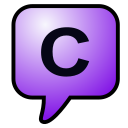
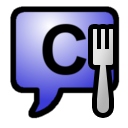
Added setting for mention users with asian nicks.

diff --git a/src/chatty/gui/MainGui.java b/src/chatty/gui/MainGui.java
@@ -1961,7 +1961,11 @@ public class MainGui extends JFrame implements Runnable {
         @Override
         public void userClicked(User user, String msgId, String autoModMsgId, MouseEvent e) {
             if (e != null && SwingUtilities.isMiddleMouseButton(e)) {
-                channels.getActiveChannel().insertText(user.getDisplayNick() + ", ", true);
+                String n = user.getName();
+                if (client.settings.getBoolean("mentionByDisplayNick")) {
+                    n = user.getDisplayNick();
+                }
+                channels.getActiveChannel().insertText(n + ", ", true);
                 return;
             }
             if (e == null || (!e.isControlDown() && !e.isAltDown())) {

diff --git a/src/chatty/gui/components/settings/ForkSettings.java b/src/chatty/gui/components/settings/ForkSettings.java
@@ -49,6 +49,13 @@ public class ForkSettings extends SettingsPanel {
         fork.add(printCheck,
                 d.makeGbc(0, 10, 3, 1, GridBagConstraints.WEST));
 
+        JCheckBox middleClickNick = d.addSimpleBooleanSetting(
+                "mentionByDisplayNick",
+                "Mention user with displayed nick.",
+                "For asian symbols.");
+        fork.add(middleClickNick,
+                d.makeGbc(0, 11, 3, 1, GridBagConstraints.WEST));
+
         fork.add(new JLabel("Path of videoplayer:"),
                 d.makeGbc(0, 7, 1, 1, GridBagConstraints.WEST));
         

diff --git a/src/chatty/SettingsManager.java b/src/chatty/SettingsManager.java
@@ -581,6 +581,7 @@ public class SettingsManager {
         settings.addString("colorNewMessage", "#C80000");
         settings.addString("colorNewHighlightedMessage", "#FF5000");
         settings.addBoolean("printAboutCheckingVersion", true);
+        settings.addBoolean("mentionByDisplayNick", true);
     }
     
     /**
